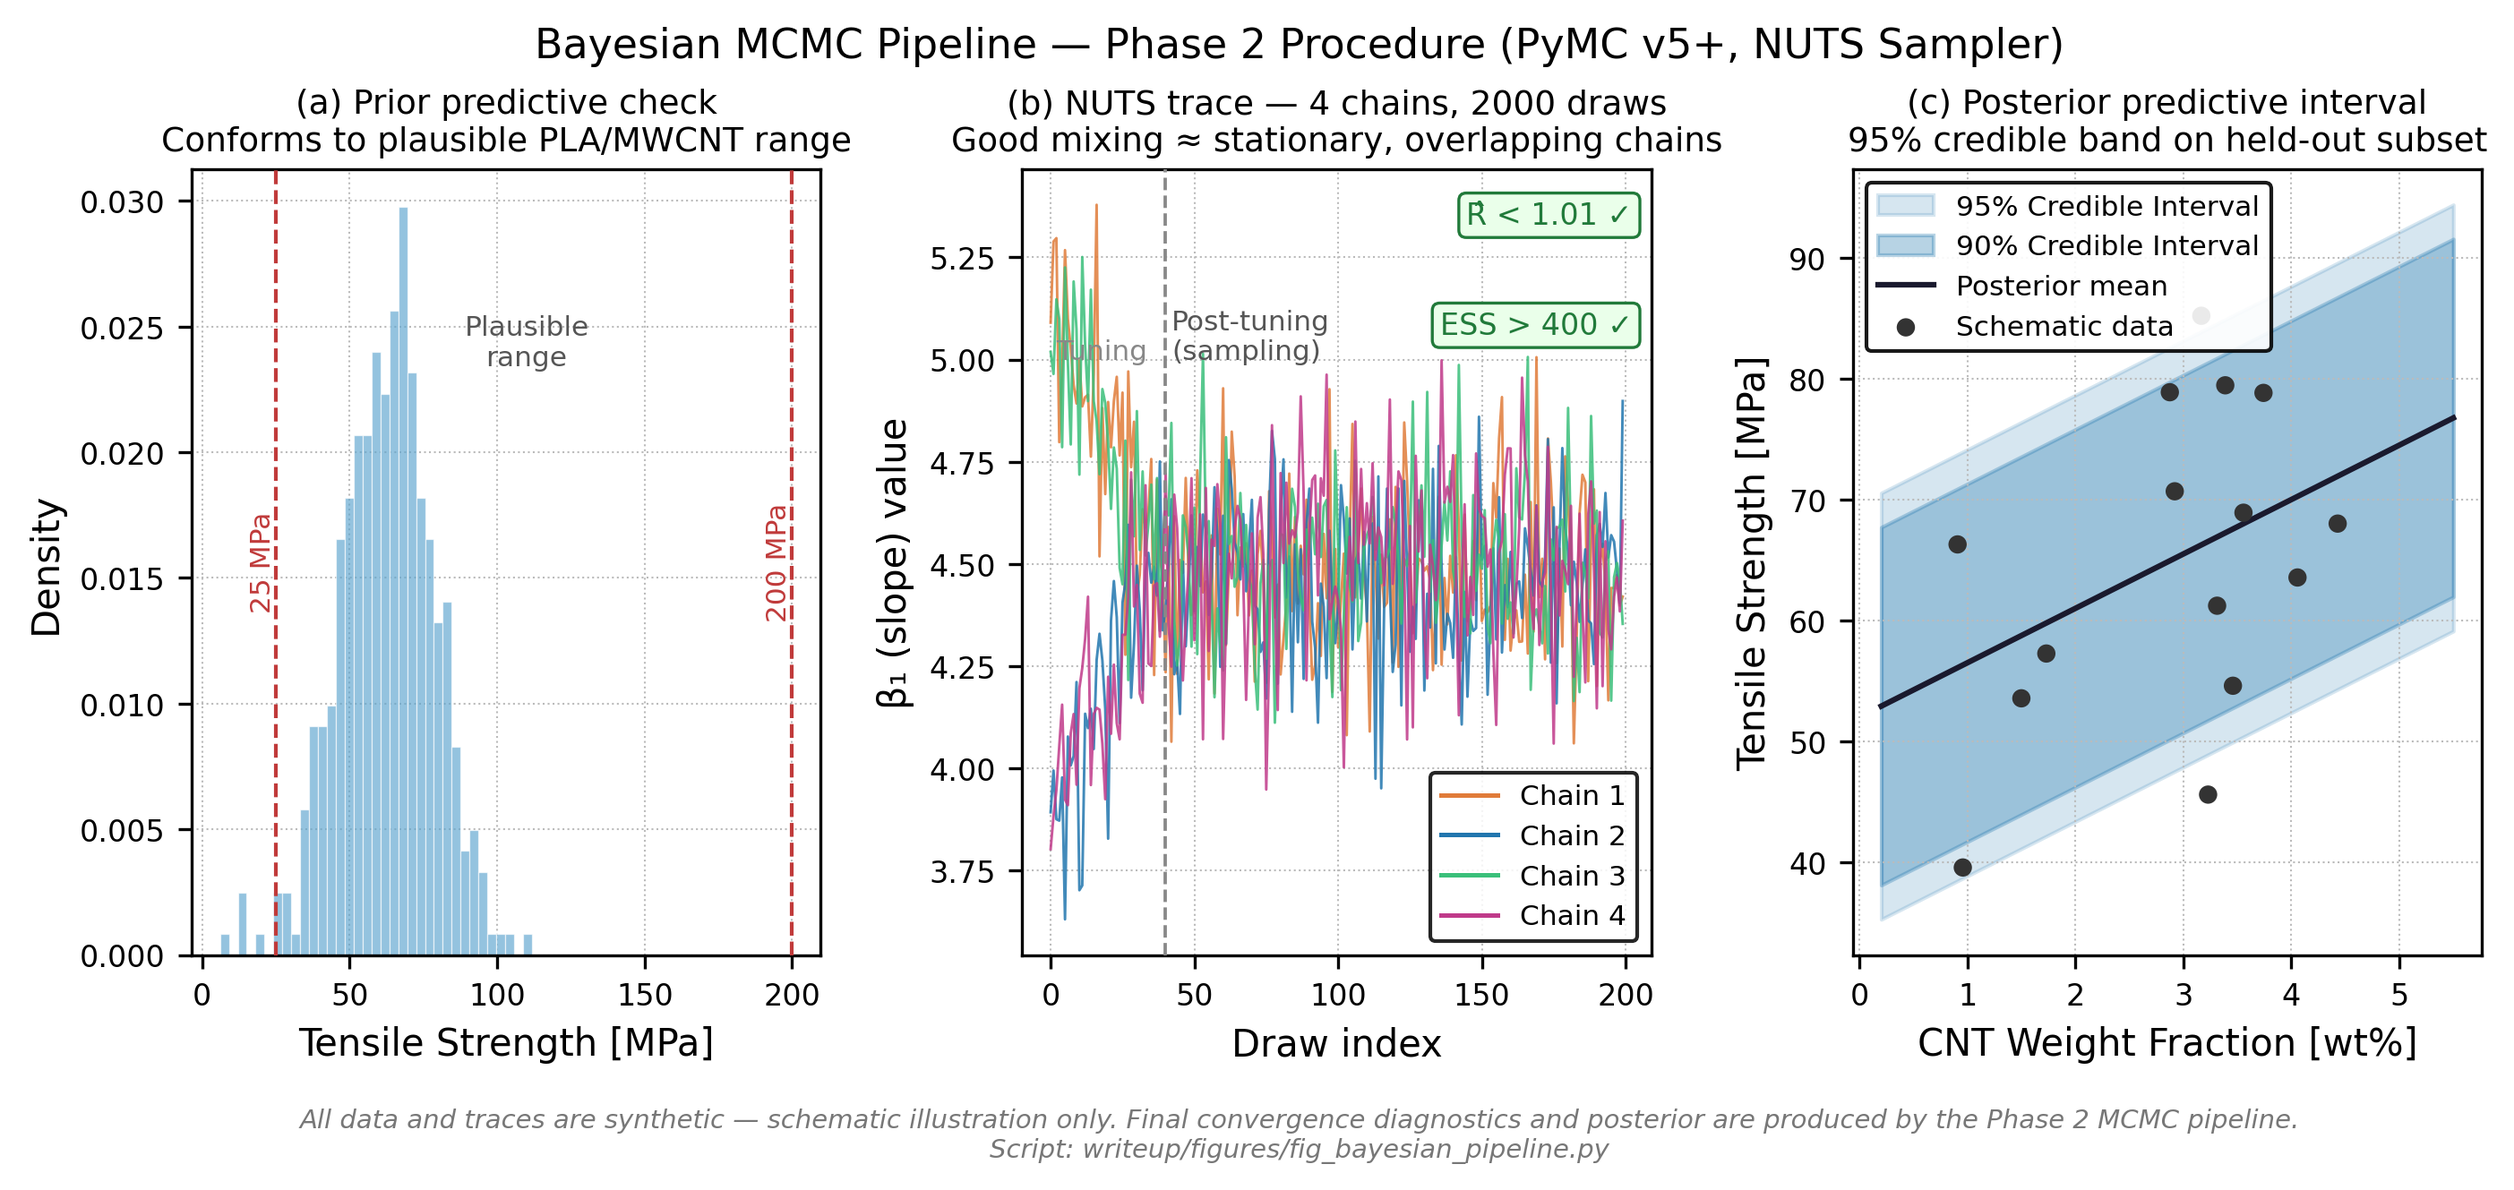
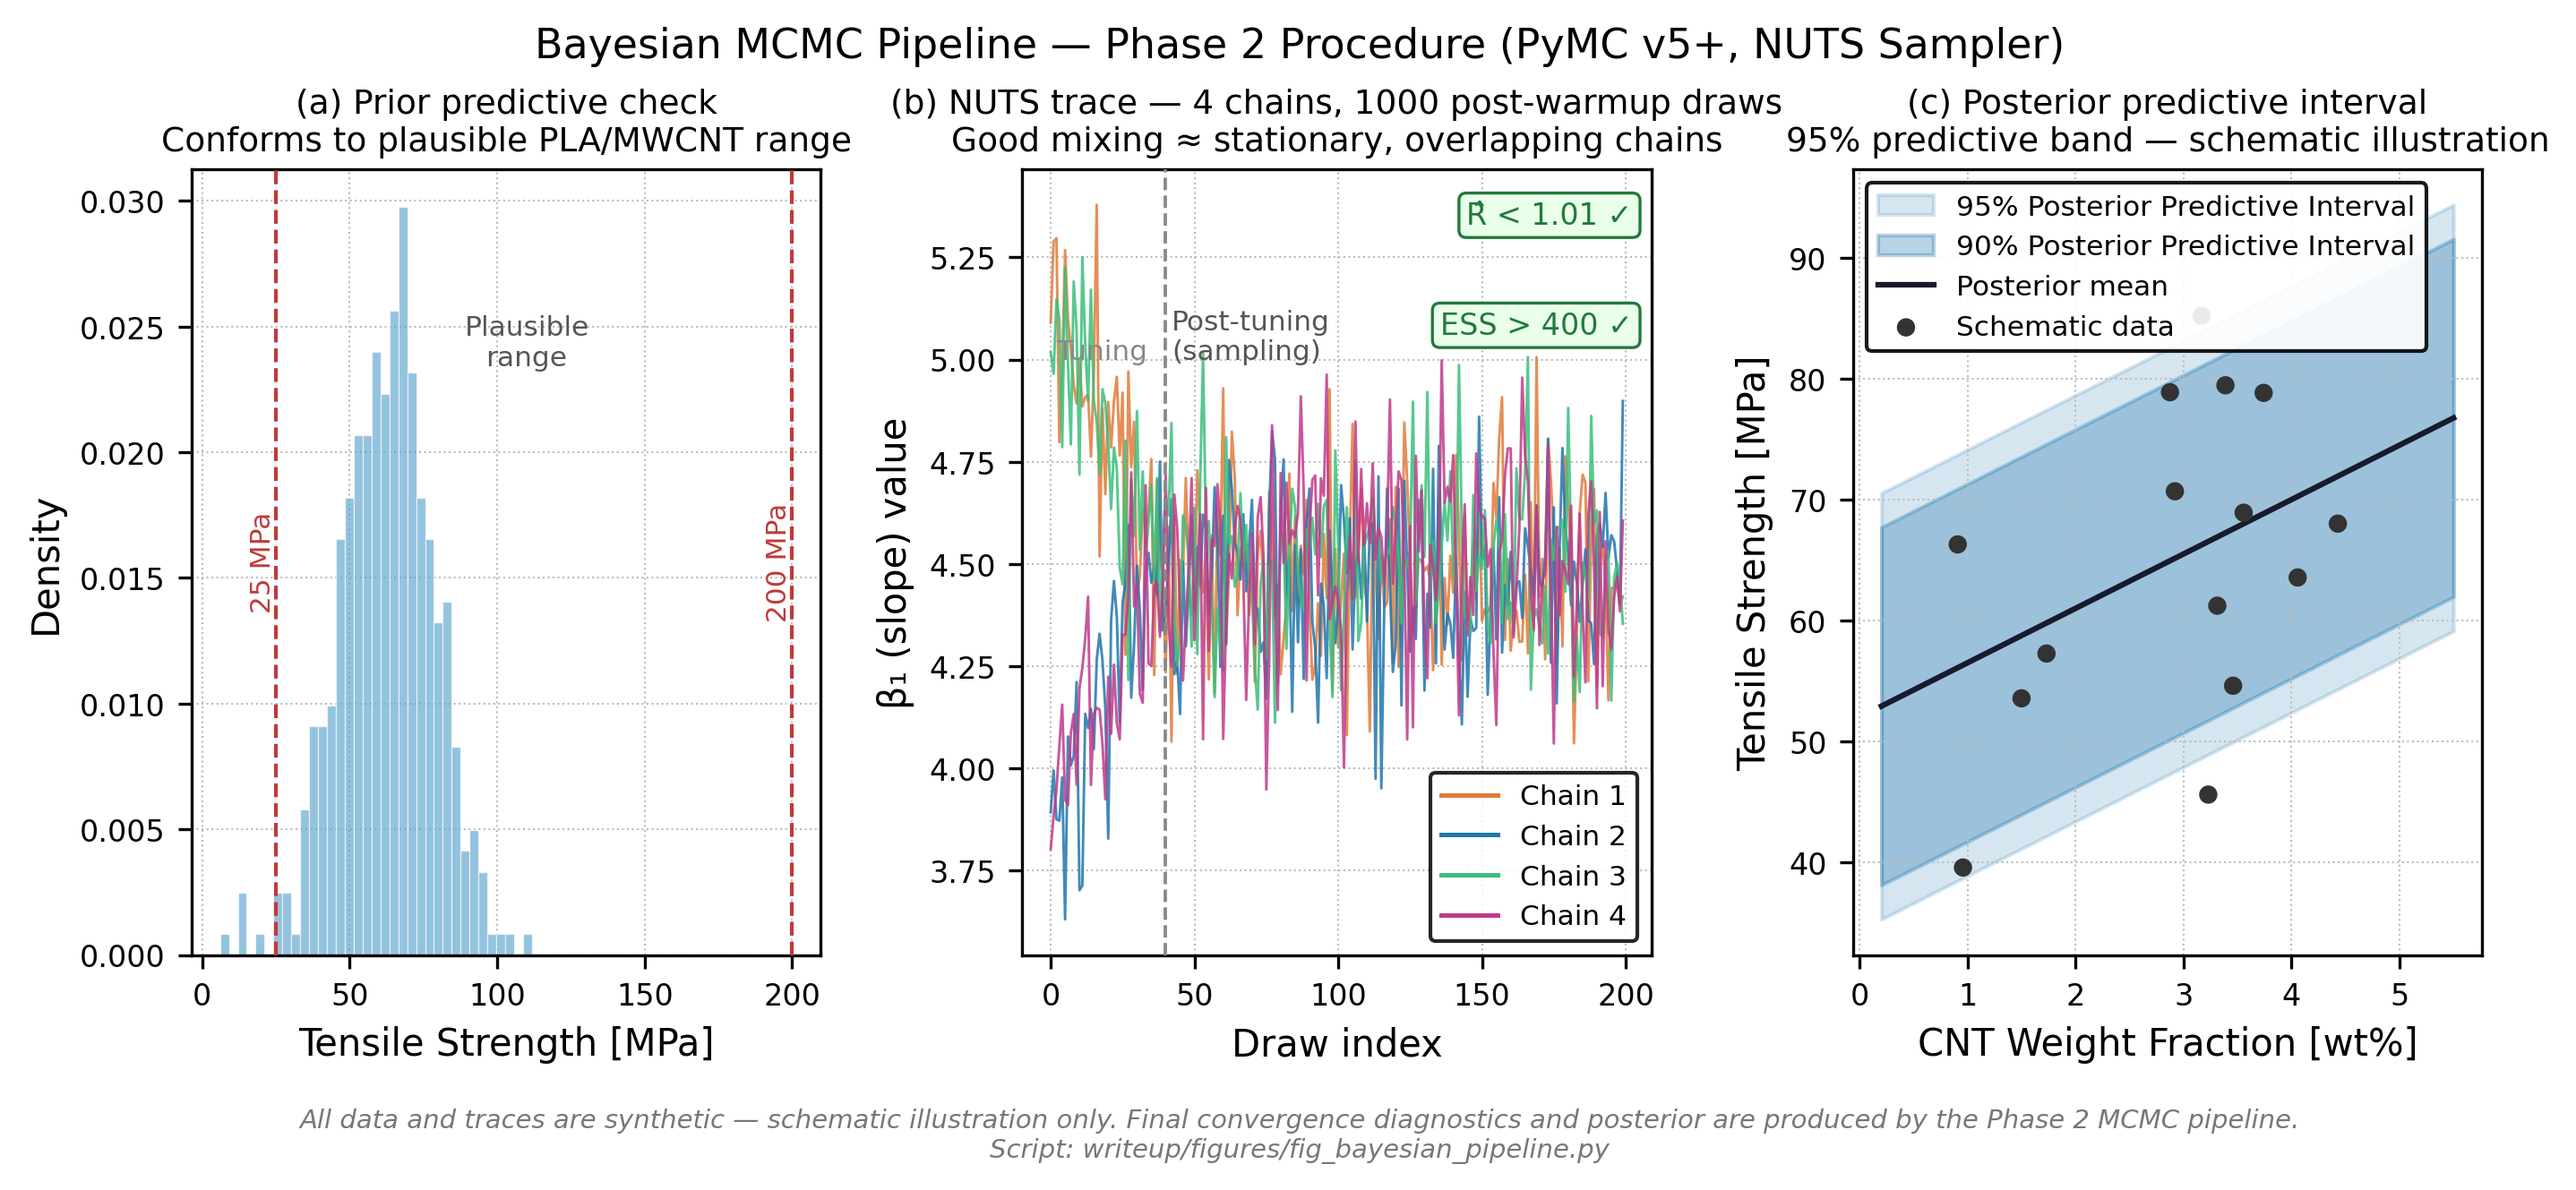
Fix figure errors found in audit: n-ladder, draws count, repeats, coverage level
- fig_n_ladder.py: complete rewrite with actual n-ladder [5,8,10,15,20,26,30,35,44]
- methodology_flowchart.py: fix n-ladder text, n=26 (not 30-60), 1000 draws, 90% coverage
- fig_uq_workflow.py: 2000 draws → 1000 draws
- fig_bayesian_pipeline.py: 2000 draws → 1000, credible → posterior predictive interval
- fig_divergence_curve.py: caption fix B=500 and 20 repeats (not B=1000 / 30 repeats)
- Regenerated all five PNGs

diff --git a/figures/fig_n_ladder.py b/figures/fig_n_ladder.py
@@ -1,97 +1,92 @@
 """
-F7 — n-Ladder Subsampling Design (Ch3 §3.3 after sub-objective 3.1)
-Horizontal step diagram: n = 200 → 100 → 50 → 25 → 10.
-Both UQ methods applied at each rung; [n_PLA_FILTERED] shown as reference point.
+Subsampling n-ladder diagram.
+Actual n-ladder: [5, 8, 10, 15, 20, 26, 30, 35, 44]
+Parent: master_dataset.csv (n=44, all PLA, mixed processing)
+n=26: PLA+FDM+D638 case-study reference (shown as distinct marker)
+Bayesian evaluated at key n-values only: 5, 10, 20, 26, 44
 Output: fig_n_ladder.png
 """
 import numpy as np
 import matplotlib.pyplot as plt
 import matplotlib.patches as mpatches
-from matplotlib.patches import FancyBboxPatch
 
-n_ladder   = [200, 100, 50, 25, 10]
-n_labels   = ['n = 200\n(Full Hiremath\npool)', 'n = 100', 'n = 50',
-               'n = 25', 'n = 10']
-x_pos      = np.arange(len(n_ladder))
+N_LADDER   = [5, 8, 10, 15, 20, 26, 30, 35, 44]
+BAY_N      = {5, 10, 20, 26, 44}   # Bayesian evaluated at these only
+CASE_N     = 26                     # PLA+FDM+D638 case-study reference
 
-COL_BS     = '#E07B39'   # Bootstrap — orange
-COL_BAY    = '#2176AE'   # Bayesian   — blue
-COL_NODE   = '#1A1A2E'
+COL_BS     = '#2166ac'   # Bootstrap — blue
+COL_BAY    = '#d6604d'   # Bayesian  — orange-red
+COL_CASE   = '#5C1F6B'   # Case-study marker — purple
+COL_NODE   = '#3A3A3A'
+COL_SPINE  = '#AAAAAA'
 
-fig, ax = plt.subplots(figsize=(10, 3.8))
-ax.set_xlim(-0.6, 4.6)
-ax.set_ylim(-0.8, 1.6)
+fig, ax = plt.subplots(figsize=(12, 4.2))
+ax.set_xlim(-0.7, len(N_LADDER) - 0.3)
+ax.set_ylim(-1.2, 2.0)
 ax.axis('off')
 
-# ── Horizontal spine ──────────────────────────────────────────────────────────
-ax.plot(x_pos, np.zeros(len(n_ladder)), color='#AAAAAA', lw=1.5, zorder=1,
-        solid_capstyle='round')
+x_pos = np.arange(len(N_LADDER))
 
-# ── Rung nodes and labels ─────────────────────────────────────────────────────
-for i, (xi, label, n) in enumerate(zip(x_pos, n_labels, n_ladder)):
-    # Main circle
-    circle = plt.Circle((xi, 0), 0.18, color=COL_NODE, zorder=3)
+# Spine
+ax.plot(x_pos, np.zeros(len(N_LADDER)), color=COL_SPINE, lw=1.5,
+        solid_capstyle='round', zorder=1)
+
+# Arrows between nodes
+for i in range(len(N_LADDER) - 1):
+    ax.annotate('', xy=(x_pos[i + 1] - 0.23, 0),
+                xytext=(x_pos[i] + 0.23, 0),
+                arrowprops=dict(arrowstyle='->', color=COL_SPINE, lw=1.1))
+
+for i, (xi, n) in enumerate(zip(x_pos, N_LADDER)):
+    is_case = (n == CASE_N)
+    is_bay  = (n in BAY_N)
+
+    # Node circle
+    node_color = COL_CASE if is_case else COL_NODE
+    circle = plt.Circle((xi, 0), 0.19, color=node_color, zorder=3)
     ax.add_patch(circle)
     ax.text(xi, 0, str(n), ha='center', va='center',
-            fontsize=9, color='white', fontweight='bold', zorder=4)
+            fontsize=8.5, color='white', fontweight='bold', zorder=4)
 
-    # Label below
-    ax.text(xi, -0.38, label, ha='center', va='top',
-            fontsize=8.5, color='#333333')
+    # Bootstrap indicator (all nodes)
+    ax.annotate('', xy=(xi + 0.21, 0.62), xytext=(xi - 0.21, 0.62),
+                arrowprops=dict(arrowstyle='<->', color=COL_BS, lw=1.4))
+    ax.text(xi, 0.75, 'Boot', ha='center', fontsize=7, color=COL_BS)
 
-    # Bootstrap bracket (above spine)
-    bracket_h = 0.52
-    ax.annotate('', xy=(xi + 0.22, bracket_h),
-                xytext=(xi - 0.22, bracket_h),
-                arrowprops=dict(arrowstyle='<->', color=COL_BS, lw=1.5))
-    ax.text(xi, bracket_h + 0.09, 'Bootstrap', ha='center', va='bottom',
-            fontsize=7.5, color=COL_BS)
+    # Bayesian indicator (key n-values only)
+    if is_bay:
+        ax.annotate('', xy=(xi + 0.21, 1.15), xytext=(xi - 0.21, 1.15),
+                    arrowprops=dict(arrowstyle='<->', color=COL_BAY, lw=1.4))
+        ax.text(xi, 1.28, 'Bayes', ha='center', fontsize=7, color=COL_BAY)
 
-    # Bayesian bracket (higher)
-    bracket_h2 = 0.95
-    ax.annotate('', xy=(xi + 0.22, bracket_h2),
-                xytext=(xi - 0.22, bracket_h2),
-                arrowprops=dict(arrowstyle='<->', color=COL_BAY, lw=1.5))
-    ax.text(xi, bracket_h2 + 0.09, 'Bayesian MCMC', ha='center', va='bottom',
-            fontsize=7.5, color=COL_BAY)
+    # Label below: case-study gets annotation
+    label = f'n = {n}'
+    label_color = COL_CASE if is_case else '#444444'
+    ax.text(xi, -0.40, label, ha='center', va='top',
+            fontsize=8, color=label_color,
+            fontweight='bold' if is_case else 'normal')
 
-# ── Arrows between rungs ──────────────────────────────────────────────────────
-for i in range(len(n_ladder) - 1):
-    ax.annotate('', xy=(x_pos[i + 1] - 0.21, 0),
-                xytext=(x_pos[i] + 0.21, 0),
-                arrowprops=dict(arrowstyle='->', color='#888888', lw=1.2))
+    if is_case:
+        ax.text(xi, -0.70, 'case-study\nreference', ha='center', va='top',
+                fontsize=7, color=COL_CASE, style='italic')
 
-# ── [n_PLA_FILTERED] reference marker ────────────────────────────────────────
-# Shown as a distinct vertical tick between n=50 and n=25 (schematic position)
-ref_x = 2.5
-ax.plot([ref_x, ref_x], [-0.25, 0.28], color='#C03A8A',
-        lw=1.2, ls='--', zorder=5)
-ax.text(ref_x, 0.31, '[n_PLA_FILTERED]\nwithin-ladder\nreference',
-        ha='center', va='bottom', fontsize=7.5, color='#C03A8A')
-ax.plot(ref_x, 0, marker='D', markersize=7,
-        color='#C03A8A', zorder=6, markeredgecolor='white', markeredgewidth=0.6)
+# Direction label
+ax.text(-0.6, 0, '← decreasing n', va='center', ha='left',
+        fontsize=8, color='#777777', style='italic')
 
-# ── Legend ────────────────────────────────────────────────────────────────────
+# Legend
 legend_handles = [
-    mpatches.Patch(color=COL_BS,  label='Bootstrap resampling (Phase 1)'),
-    mpatches.Patch(color=COL_BAY, label='Bayesian MCMC (Phase 2)'),
-    plt.Line2D([0], [0], color='#C03A8A', lw=1.2, ls='--', marker='D',
-               markersize=6, label='[n_PLA_FILTERED] — PLA case-study reference'),
+    mpatches.Patch(color=COL_BS,  label='Bootstrap (B=500, all 9 n-values, 20 repeats each)'),
+    mpatches.Patch(color=COL_BAY, label='Bayesian NUTS (draws=500, key n-values: 5, 10, 20, 26, 44)'),
+    mpatches.Patch(color=COL_CASE, label='n=26: PLA+FDM+D638 filtered case-study dataset'),
 ]
-ax.legend(handles=legend_handles, fontsize=8.5, loc='lower right',
-          bbox_to_anchor=(1.01, -0.55), framealpha=0.9, edgecolor='black')
+ax.legend(handles=legend_handles, fontsize=8.5, loc='lower center',
+          bbox_to_anchor=(0.5, -1.05), ncol=1, framealpha=0.9, edgecolor='#CCCCCC')
 
 ax.set_title(
-    'Subsampling Experiment — n-Ladder Design (n = 200 → 100 → 50 → 25 → 10)\n'
-    'Both UQ methods applied at each rung; identical subsamples ensure fair comparison',
+    'Subsampling Experiment — n-Ladder Design\n'
+    'Parent: master_dataset.csv (n=44, all PLA, mixed processing)',
     fontsize=11, pad=10)
-
-fig.text(0.5, -0.01,
-         'Parent pool: full 200-row Hiremath dataset. '
-         '[n_PLA_FILTERED] is the PLA-filtered case-study size — within-ladder reference, not the parent.\n'
-         'Fixed random seeds at each n-level ensure reproducibility. '
-         'Script: writeup/figures/fig_n_ladder.py',
-         ha='center', va='top', fontsize=7, style='italic', color='#777777')
 
 plt.tight_layout()
 out = __file__.replace('.py', '.png')

diff --git a/figures/methodology_flowchart.py b/figures/methodology_flowchart.py
@@ -12,8 +12,7 @@ from matplotlib.patches import FancyBboxPatch, FancyArrowPatch
 import os
 
 OUT = os.path.join(os.path.dirname(os.path.abspath(__file__)),
-                   "figures", "methodology_flowchart.png")
-os.makedirs(os.path.dirname(OUT), exist_ok=True)
+                   "methodology_flowchart.png")
 
 # ── colors ────────────────────────────────────────────────────────────────────
 C = {
@@ -155,8 +154,8 @@ box(ax, LM, Y_DATA, W, H_DATA,
     body_lines=[
         "▸  Literature dataset: Hiremath et al. (2025) — 200 rows, CNT/polymer tensile",
         "▸  Three-axis filter: PLA matrix   |   FDM / 3D-print processing   |   ASTM D638 / ISO 527",
-        "▸  Supplementary extraction: PLA+FDM papers from literature (~60 rows combined)",
-        "▸  Output: filtered training dataset, n ≈ 30–60 rows",
+        "▸  Supplementary extraction: PLA+FDM papers from literature (master_dataset.csv, n=44)",
+        "▸  Output: filtered training dataset, n = 26 rows (PLA + FDM + ASTM D638/ISO 527)",
     ])
 
 # Arrow: data → shared model note
@@ -189,8 +188,8 @@ box(ax, X_P1, Y_PH12, HALF_W, H_PH12,
     body_lines=[
         "▸  Bootstrap resampling with replacement",
         "    B = 1,000 resamples",
-        "▸  Prediction intervals at 95% nominal",
-        "▸  Metrics: PICP, MPIW",
+        "▸  Prediction intervals at 90% nominal",
+        "▸  Metrics: PICP, MPIW, CRPS",
         "▸  Tool: scikit-learn resample",
     ])
 
@@ -202,7 +201,7 @@ box(ax, X_P2, Y_PH12, HALF_W, H_PH12,
     fontsize_hdr=8.8,
     body_lines=[
         "▸  Bayesian linear regression via PyMC",
-        "    NUTS sampler: 4 chains × 2,000 draws",
+        "    NUTS sampler: 4 chains × 1,000 draws (1,000 tune)",
         "▸  Priors: β ~ N(0,1), σ ~ HalfNormal(1)",
         "▸  Metrics: PICP, MPIW, CRPS",
         "▸  Diagnostics: R̂, ESS (arviz)",
@@ -223,7 +222,7 @@ box(ax, LM, Y_P3, W, H_P3,
     hdr_h=0.042,
     body_lines=[
         "▸  Both methods applied at descending sample sizes (n-ladder):",
-        "    n = 60  →  40  →  25  →  15  →  10",
+        "    n = 44  →  35  →  30  →  26  →  20  →  15  →  10  →  8  →  5",
         "▸  At each n: refit model, rerun UQ, evaluate PICP and MPIW",
         "▸  Output: divergence curves  —  PICP(n) and MPIW(n) for Bootstrap vs. Bayesian",
         "▸  Decision threshold: sample size at which Bayesian calibration diverges from Bootstrap",

diff --git a/figures/fig_bayesian_pipeline.py b/figures/fig_bayesian_pipeline.py
@@ -76,7 +76,7 @@ ax.text(0.97, 0.82, 'ESS > 400 ✓', transform=ax.transAxes,
 
 ax.set_xlabel('Draw index', fontsize=10)
 ax.set_ylabel('β₁ (slope) value', fontsize=10)
-ax.set_title('(b) NUTS trace — 4 chains, 2000 draws\nGood mixing ≈ stationary, overlapping chains',
+ax.set_title('(b) NUTS trace — 4 chains, 1000 post-warmup draws\nGood mixing ≈ stationary, overlapping chains',
              fontsize=9, pad=5)
 ax.grid(True, linestyle=':', linewidth=0.5, color='#BBBBBB')
 ax.spines[['top', 'right', 'bottom', 'left']].set_color('black')
@@ -97,16 +97,16 @@ y_fit  = 52 + 4.5 * x_line
 # 90% and 95% posterior predictive bands
 sigma_post = 9.0
 ax.fill_between(x_line, y_fit - 1.960 * sigma_post, y_fit + 1.960 * sigma_post,
-                alpha=0.18, color=COL_POST, label='95% Credible Interval')
+                alpha=0.18, color=COL_POST, label='95% Posterior Predictive Interval')
 ax.fill_between(x_line, y_fit - 1.645 * sigma_post, y_fit + 1.645 * sigma_post,
-                alpha=0.32, color=COL_POST, label='90% Credible Interval')
+                alpha=0.32, color=COL_POST, label='90% Posterior Predictive Interval')
 ax.plot(x_line, y_fit, color='#1A1A2E', lw=1.5, label='Posterior mean')
 ax.scatter(x_data, y_data, s=24, color=COL_DATA, zorder=5,
            edgecolors='none', label='Schematic data')
 
 ax.set_xlabel('CNT Weight Fraction [wt%]', fontsize=10)
 ax.set_ylabel('Tensile Strength [MPa]', fontsize=10)
-ax.set_title('(c) Posterior predictive interval\n95% credible band on held-out subset',
+ax.set_title('(c) Posterior predictive interval\n95% predictive band — schematic illustration',
              fontsize=9, pad=5)
 ax.grid(True, linestyle=':', linewidth=0.5, color='#BBBBBB')
 ax.spines[['top', 'right', 'bottom', 'left']].set_color('black')

diff --git a/figures/fig_divergence_curve.py b/figures/fig_divergence_curve.py
@@ -103,7 +103,7 @@ ax2.grid(True, alpha=0.3, lw=0.5)
 fig.text(
     0.5, -0.04,
     "Figure. Divergence curves for bootstrap and Bayesian NUTS at 90% nominal coverage.\n"
-    "Bootstrap: B=1000, add_noise=True, 30 repeats per n (error bands = ±1 SD). "
+    "Bootstrap: B=500, add_noise=True, 20 repeats per n (error bands = ±1 SD). "
     "Bayesian: draws=500, tune=500, 4 chains, 5 repeats per n.\n"
     "Threshold n*≈10: largest n where |PICP_boot − PICP_Bayes| > 0.05. "
     "Both methods converge at n≥20.",

diff --git a/figures/fig_uq_workflow.py b/figures/fig_uq_workflow.py
@@ -75,8 +75,8 @@ for i in range(len(bs_steps) - 1):
 bay_steps = [
     (7.9, 'Prior specification\nβ ~ N(0,1), σ ~ HalfN(1)'),
     (6.6, 'Prior predictive check\n(plausible TS range?)'),
-    (5.3, 'NUTS sampling\n4 chains × 2000 draws'),
-    (4.0, 'Posterior predictive interval\n(90% / 95% credible)'),
+    (5.3, 'NUTS sampling\n4 chains × 1000 draws'),
+    (4.0, 'Posterior predictive interval\n(90% / 95% nominal)'),
     (2.7, 'PICP, MPIW, CRPS\n(Uncertainty Toolbox)'),
 ]
 for y, txt in bay_steps:
